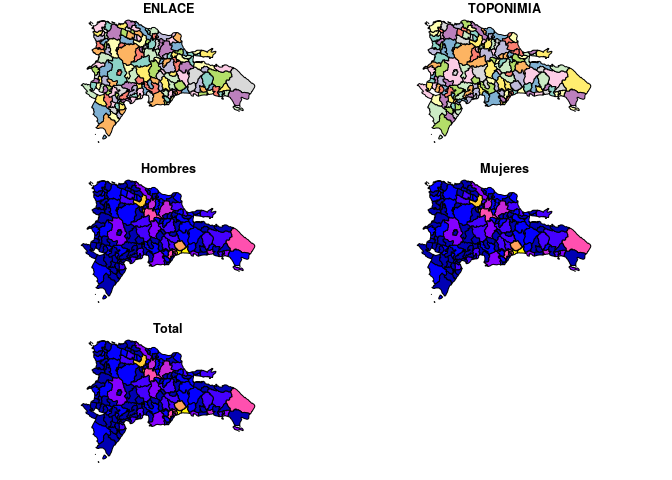
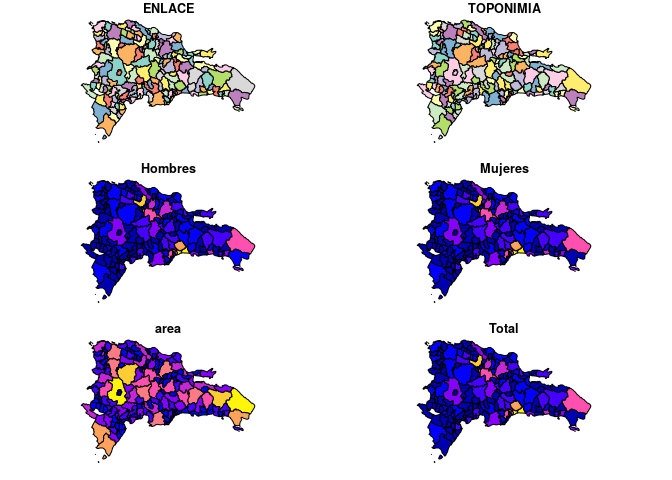
intro-to-r updated

Changed region(s): [[0.625, 0.6562, 0.875, 0.9688], [0.125, 0.6562, 0.375, 0.9375]]

diff --git a/ref/introduccion-a-r.md b/ref/introduccion-a-r.md
@@ -186,6 +186,7 @@ library(tidyverse)
 library(readxl)
 library(tmap)
 library(RColorBrewer)
+library(units)
 ```
 
 Brevemente, con `sf` crearás y manipularás *simple features*, `raster`
@@ -1453,27 +1454,27 @@ población de hombres y mujeres.
 
 ``` r
 mun.sf.sex <- mun.sf.pop %>%
-  dplyr::select(ENLACE, TOPONIMIA, Hombres, Mujeres) %>% #Selecciona sólo las columnas de población por sexo y el nombre del municipio 
+  dplyr::select(ENLACE, TOPONIMIA, Hombres, Mujeres, area) %>% #Selecciona sólo las columnas de población por sexo y el nombre del municipio 
   mutate(Total=Hombres+Mujeres) #Calcula el total de hombres y mujeres
 mun.sf.sex
-## Simple feature collection with 155 features and 5 fields
+## Simple feature collection with 155 features and 6 fields
 ## geometry type:  MULTIPOLYGON
 ## dimension:      XY
 ## bbox:           xmin: -72.01147 ymin: 17.47016 xmax: -68.32296 ymax: 19.93213
 ## epsg (SRID):    4326
 ## proj4string:    +proj=longlat +datum=WGS84 +no_defs
 ## First 10 features:
-##    ENLACE               TOPONIMIA Hombres Mujeres
-## 1  100101 SANTO DOMINGO DE GUZMÁN  460903  504137
-## 2  050201                    AZUA   46280   45065
-## 3  050202             LAS CHARCAS    5962    5281
-## 4  050203    LAS YAYAS DE VIAJAMA    9513    8107
-## 5  050204         PADRE LAS CASAS   10695    9346
-## 6  050205                 PERALTA    8189    7068
-## 7  050206            SABANA YEGUA   10352    8668
-## 8  050207            PUEBLO VIEJO    5861    5374
-## 9  050208           TÁBARA ARRIBA    9999    7648
-## 10 050209                GUAYABAL    2994    2269
+##    ENLACE               TOPONIMIA Hombres Mujeres            area
+## 1  100101 SANTO DOMINGO DE GUZMÁN  460903  504137  91517576 [m^2]
+## 2  050201                    AZUA   46280   45065 416324302 [m^2]
+## 3  050202             LAS CHARCAS    5962    5281 246669929 [m^2]
+## 4  050203    LAS YAYAS DE VIAJAMA    9513    8107 431079179 [m^2]
+## 5  050204         PADRE LAS CASAS   10695    9346 573880948 [m^2]
+## 6  050205                 PERALTA    8189    7068 129370697 [m^2]
+## 7  050206            SABANA YEGUA   10352    8668 113799233 [m^2]
+## 8  050207            PUEBLO VIEJO    5861    5374  48117190 [m^2]
+## 9  050208           TÁBARA ARRIBA    9999    7648 274667489 [m^2]
+## 10 050209                GUAYABAL    2994    2269 235625110 [m^2]
 ##                              geom  Total
 ## 1  MULTIPOLYGON (((-69.9748 18... 965040
 ## 2  MULTIPOLYGON (((-70.71679 1...  91345
@@ -1509,26 +1510,252 @@ plot(mun.sf.sex['Mujeres'], breaks = 'jenks') #Población de mujeres
 Tal como indiqué arriba, los mapas generados con la función `plot` son
 muy mejorables. En R no es fácil cumplir con los estándares propios de
 un mapa cartográficamente apropiado. Por ejemplo, eliminar el “efecto
-isla” requeriría retoques manuales, y rotular objetos de referencia en
-el mapa requeriría también acciones manuales. Sin embargo, no podemos
-olvidar que en R lo que más nos interesa es explorar e interpretar
-patrones, por lo que la simbología y está orientada a actuar sobre la o
-las variables de nuestro interés. En tal sentido, los paquetes `ggplot2`
-(parte de `tidyverse`) y `tmap` ofrecen herramientas versátiles para
-conseguir mapas informativos, al menos en lo que respecta a la variable
-de interés.
+isla” requeriría retocar manualmente el mapa anterior; colocar y rotular
+objetos de referencia requeriría también acciones manuales. Sin embargo,
+no debemos olvidar que en R lo que más nos interesa es explorar e
+interpretar patrones, por lo que la simbología actúa primordialmente
+sobre la o las variables de interés.
+
+En tal sentido, los paquetes `ggplot2` (parte de `tidyverse`) y `tmap`
+ofrecen herramientas versátiles para conseguir mapas informativos, al
+menos en lo que respecta a la variable de interés. Probemos primero con
+`ggplot2`. Este paquete incorpora función `geom_sf` para añadir capas de
+objetos `sf`. Una breve introducción al funcionamiento de `ggplot2`:
+mediante la función `ggplot` se crea un espacio de coordenadas según los
+datos disponibles en el `data.frame` que se introduzca en el argumento
+`data`. A continuación, se definen las variables estéticas sobre las que
+se construirá la simbología. Finalmente, se definen propiedades del
+gráfico, como por ejemplo, tema o plantilla base, escala de colores,
+tamaño de letra, variables para representar en forma de panel, entre
+otras. Utilicemos el objeto `mun.sf.sex` para hacer un mapa básico de
+población total.
+
+Para fines didácticos, avancemos añadiendo fuentes de datos y capas paso
+a paso. Primero crearemos el espacio de coordenadas y lo asignaremos a
+`p0`, y sobre éste acumularemos las siguientes funciones en subsecuentes
+objetos `p#`. En el futuro no necesitarás realizar tus gráficos de forma
+acumulativa y crearás *scripts* más fluidos.
 
 ``` r
-mun.sf.sex %>%
-  dplyr::select(Mujeres, Hombres) %>% 
-  gather(variable, value, -geom) %>%
-  ggplot(aes(fill=value)) +
-  geom_sf(lwd=0.2) +
-  facet_wrap(~variable) +
+p0 <- ggplot(mun.sf.sex)
+p0
+```
+
+<img src="../img/ggplotp0-1.png" width="100%" />
+
+El espacio de coordenadas ya está creado, y `ggplot2` está preparado
+para aceptar variables. Como variable a representar (mapear, `map`),
+usaremos la “población total”, que en la tabla `mun.sf.sex` se denomina
+`Total`. Nota que acumularemos usando `+`.
+
+``` r
+p1 <- p0 + aes(fill = Total)
+p1
+```
+
+<img src="../img/ggplotp1-1.png" width="100%" />
+
+Dado que nuestro gráfico se basará en población total, `ggplot2` está
+preparado para recibir capas, o geometrías. Las capas son las que
+definen el cuerpo del gráfico. Si no añadimos capas, el gráfico
+permanecerá vacío. En este caso, añadiremos la capa `geom_sf`, que
+tomará las geometrías de la fuente de datos y la estilizará con un
+borde de `0.2`.
+
+``` r
+p2 <- p1 + geom_sf(lwd = 0.2)
+p2
+```
+
+<img src="../img/ggplotp2-1.png" width="100%" />
+
+`ggplot2`, al reconocer que la variable `Total` es cuantitativa, utiliza
+un gradiente como escala de simbología, en este caso, un gradiente de
+azules, desde el oscuro al claro. Nótese que la simbología es bastante
+pobre, por dos razones principalmente. Por una parte, la variable visual
+empleada es intensidad, pero ésta sobre una escala lineal. Por otro
+lado, la escala lineal no favorece una adecuada representación. En casos
+como éste, donde se tienen muchas unidades con valores muy pequeños, y
+unas pocas con valores muy grandes, la escala lineal esconde una parte
+importante de los patrones. Un histograma básico refleja recoje este
+sesgo de la distribución:
+
+``` r
+hist(mun.sf.sex$Total)
+```
+
+<img src="../img/histbasico-1.png" width="100%" />
+
+La variable población total muestra un fuerte sesgo hacia la derecha,
+influido especialmente por las unidades de mucha población (los
+municipios Santo Domingo \*, Los Alcarrizos y Santiago, con más de
+250,000 cada uno, y que acumulaban casi 4 millones de habitantes en
+2010). Por tal razón, una escala logarítimica (puede ser en base e como
+en base 10) ayuda a mejorar la visualización.
+
+``` r
+hist(log10(mun.sf.sex$Total))
+```
+
+<img src="../img/histbasicolog10-1.png" width="100%" />
+
+Aplicaremos dicha escala en `ggplot2`, utilizando el argumento
+`trans=log10` en la escala de gradiente, y usaremos una función de
+gradiente versátil que permite definir una paleta. En este caso,
+elegimos una paleta de rojos de la colección
+[ColorBrewer](http://colorbrewer2.org).
+
+``` r
+p3 <- p2 + scale_fill_gradientn(colours = brewer.pal(9, name = 'Reds'), trans = 'log10')
+p3
+```
+
+<img src="../img/ggplotp3-1.png" width="100%" />
+
+En este caso, podemos reconocer múltiples patrones “ocultos” en el mapa
+anterior, como que hay municipios poco poblados en el entorno de la Hoya
+de Enriquillo y en parte de la frontera Domínico-Haitiana. Igualmente,
+gracias a la simbología, los municipios muy poblados se distinguen más
+del resto. Nótese que se está representando población total, no densidad
+de población. Calculemos la densidad poblacional en habitantes por
+kilómetro cuadrado y, posteriormente, generemos un mapa para comparar
+con el
+anterior.
+
+``` r
+mun.sf.sex.dpob <- mun.sf.sex %>% mutate(areakm2 = set_units(area, km^2)) %>%
+  mutate(dpob = drop_units(Total/areakm2))
+mun.sf.sex.dpob
+## Simple feature collection with 155 features and 8 fields
+## geometry type:  MULTIPOLYGON
+## dimension:      XY
+## bbox:           xmin: -72.01147 ymin: 17.47016 xmax: -68.32296 ymax: 19.93213
+## epsg (SRID):    4326
+## proj4string:    +proj=longlat +datum=WGS84 +no_defs
+## First 10 features:
+##    ENLACE               TOPONIMIA Hombres Mujeres            area
+## 1  100101 SANTO DOMINGO DE GUZMÁN  460903  504137  91517576 [m^2]
+## 2  050201                    AZUA   46280   45065 416324302 [m^2]
+## 3  050202             LAS CHARCAS    5962    5281 246669929 [m^2]
+## 4  050203    LAS YAYAS DE VIAJAMA    9513    8107 431079179 [m^2]
+## 5  050204         PADRE LAS CASAS   10695    9346 573880948 [m^2]
+## 6  050205                 PERALTA    8189    7068 129370697 [m^2]
+## 7  050206            SABANA YEGUA   10352    8668 113799233 [m^2]
+## 8  050207            PUEBLO VIEJO    5861    5374  48117190 [m^2]
+## 9  050208           TÁBARA ARRIBA    9999    7648 274667489 [m^2]
+## 10 050209                GUAYABAL    2994    2269 235625110 [m^2]
+##                              geom  Total          areakm2        dpob
+## 1  MULTIPOLYGON (((-69.9748 18... 965040  91.51758 [km^2] 10544.85975
+## 2  MULTIPOLYGON (((-70.71679 1...  91345 416.32430 [km^2]   219.40828
+## 3  MULTIPOLYGON (((-70.57286 1...  11243 246.66993 [km^2]    45.57913
+## 4  MULTIPOLYGON (((-71.00905 1...  17620 431.07918 [km^2]    40.87416
+## 5  MULTIPOLYGON (((-70.86264 1...  20041 573.88095 [km^2]    34.92188
+## 6  MULTIPOLYGON (((-70.82254 1...  15257 129.37070 [km^2]   117.93242
+## 7  MULTIPOLYGON (((-70.85519 1...  19020 113.79923 [km^2]   167.13645
+## 8  MULTIPOLYGON (((-70.75679 1...  11235  48.11719 [km^2]   233.49244
+## 9  MULTIPOLYGON (((-70.87475 1...  17647 274.66749 [km^2]    64.24859
+## 10 MULTIPOLYGON (((-70.76943 1...   5263 235.62511 [km^2]    22.33633
+dpob <- ggplot(mun.sf.sex.dpob) + aes(fill = dpob) + geom_sf(lwd = 0.2) +
   scale_fill_gradientn(colours = brewer.pal(9, name = 'Reds'), trans = 'log10')
 ```
 
-<img src="../img/ggplot-1.png" width="100%" />
+Si comparamos este mapa con el anterior, veremos que afloran nuevos
+patrones, puesto que el área relativiza el efecto de la población
+absoluta. Por ejemplo, Higüey queda como municipio de densidad
+poblacional intermedia, mientras que según su población absoluta podría
+considerarse como municipio muy poblado.
+
+Finalmente, la colección `tidyverse`, a través de sus paquetes `tidyr` y
+`ggplot2`, cuenta con funciones de reorganización de datos para
+facilitarnos la tara de representar múltiples variables en un único
+panel. Por ejemplo, sería útil representar la población de mujeres y
+hombres en un mismo panel, para facilitarnos la tarea de comparar y
+encontrar patrones diferenciados, si los hubiere. Para fines didácticos,
+generemos los datos fuente paso a paso. Primero necesitamos seleccionar
+las columnas que nos interesan (`Mujeres`, `Hombres` y `TOPONIMIA`)
+
+``` r
+mun.sf.sex1 <- mun.sf.sex %>%
+  dplyr::select(TOPONIMIA, Mujeres, Hombres)
+mun.sf.sex1
+## Simple feature collection with 155 features and 3 fields
+## geometry type:  MULTIPOLYGON
+## dimension:      XY
+## bbox:           xmin: -72.01147 ymin: 17.47016 xmax: -68.32296 ymax: 19.93213
+## epsg (SRID):    4326
+## proj4string:    +proj=longlat +datum=WGS84 +no_defs
+## First 10 features:
+##                  TOPONIMIA Mujeres Hombres                           geom
+## 1  SANTO DOMINGO DE GUZMÁN  504137  460903 MULTIPOLYGON (((-69.9748 18...
+## 2                     AZUA   45065   46280 MULTIPOLYGON (((-70.71679 1...
+## 3              LAS CHARCAS    5281    5962 MULTIPOLYGON (((-70.57286 1...
+## 4     LAS YAYAS DE VIAJAMA    8107    9513 MULTIPOLYGON (((-71.00905 1...
+## 5          PADRE LAS CASAS    9346   10695 MULTIPOLYGON (((-70.86264 1...
+## 6                  PERALTA    7068    8189 MULTIPOLYGON (((-70.82254 1...
+## 7             SABANA YEGUA    8668   10352 MULTIPOLYGON (((-70.85519 1...
+## 8             PUEBLO VIEJO    5374    5861 MULTIPOLYGON (((-70.75679 1...
+## 9            TÁBARA ARRIBA    7648    9999 MULTIPOLYGON (((-70.87475 1...
+## 10                GUAYABAL    2269    2994 MULTIPOLYGON (((-70.76943 1...
+```
+
+¿Qué pasó? Pues simplemente, seleccionamos las columnas que nos
+interesan de la tabla de atributos. El objeto sigue siendo un *simple
+feature*, puesto que la columna `geom` es “pegajosa” y no abandona el
+objeto a menos que se lo indiquemos expresamente. Ahora viene la parte
+interesante, donde reuniremos las columnas `Hombres` y `Mujeres` en una
+única columna clave denominada `variable`, y los valores de cada una de
+éstas terminarán en una columna de valores denominada `valor`. Se
+conservarán, como columnas pivotantes, `TOPONIMIA` y `geom`.
+
+``` r
+mun.sf.sex2 <- mun.sf.sex1 %>% 
+  gather(variable, value, Mujeres:Hombres)
+mun.sf.sex2
+## Simple feature collection with 310 features and 3 fields
+## geometry type:  MULTIPOLYGON
+## dimension:      XY
+## bbox:           xmin: -72.01147 ymin: 17.47016 xmax: -68.32296 ymax: 19.93213
+## epsg (SRID):    4326
+## proj4string:    +proj=longlat +datum=WGS84 +no_defs
+## First 10 features:
+##                  TOPONIMIA variable  value                           geom
+## 1  SANTO DOMINGO DE GUZMÁN  Mujeres 504137 MULTIPOLYGON (((-69.9748 18...
+## 2                     AZUA  Mujeres  45065 MULTIPOLYGON (((-70.71679 1...
+## 3              LAS CHARCAS  Mujeres   5281 MULTIPOLYGON (((-70.57286 1...
+## 4     LAS YAYAS DE VIAJAMA  Mujeres   8107 MULTIPOLYGON (((-71.00905 1...
+## 5          PADRE LAS CASAS  Mujeres   9346 MULTIPOLYGON (((-70.86264 1...
+## 6                  PERALTA  Mujeres   7068 MULTIPOLYGON (((-70.82254 1...
+## 7             SABANA YEGUA  Mujeres   8668 MULTIPOLYGON (((-70.85519 1...
+## 8             PUEBLO VIEJO  Mujeres   5374 MULTIPOLYGON (((-70.75679 1...
+## 9            TÁBARA ARRIBA  Mujeres   7648 MULTIPOLYGON (((-70.87475 1...
+## 10                GUAYABAL  Mujeres   2269 MULTIPOLYGON (((-70.76943 1...
+```
+
+El objeto resultante tiene 310 elementos, que corresponden a los 155
+municipios con su número de mujeres y otros 155 con su número de
+hombres. Con los datos organizados de esta manera, es posible generar un
+panel usando la función `facet_wrap`. Nota que generemos el mapa “de un
+tirón”, insertando la función `ggplot` dentro de la tubería `dplyr`. De
+esta manera, la función `ggplot` no necesita el argumento `data =
+mun.sf.sex` porque, al usarse la pipa (`%>%`), el objeto a su izquierda
+se inserta como primer argumento de la función a su derecha.
+
+``` r
+mun.sf.sex2 %>% 
+  ggplot() + aes(fill=value) + geom_sf(lwd=0.2) +
+  facet_wrap(~variable) + theme(text = element_text(size = 8)) +
+  scale_fill_gradientn(colours = brewer.pal(9, name = 'Reds'), trans = 'log10')
+```
+
+<img src="../img/ggplotmh-1.png" width="100%" />
+
+> Para conseguir una visualización apropiada, se incluyó la función
+> `theme(text = element_text(size = 8))`.
+
+Ambos mapas son un calco el uno del otro. Pocos patrones diferenciados
+se pueden destacar más que, por ejemplo, Higüey tiene una población de
+mujeres algo menor que la de hombres. Algo parecido ocurre en los
+municipios septentrionales de las provincias Peravia y San Cristóbal.
 
 ## Conclusión
 
@@ -1585,7 +1812,7 @@ for the useR*. Retrieved from <https://happygitwithr.com/>
 
 <div id="ref-perpinan2019intro">
 
-Lamigueiro, O. P. (2015). *Introducción a r*.
+Lamigueiro, O. P. (2015). *Introducción a R*.
 <https://oscarperpinan.github.io/R/>.
 
 </div>
